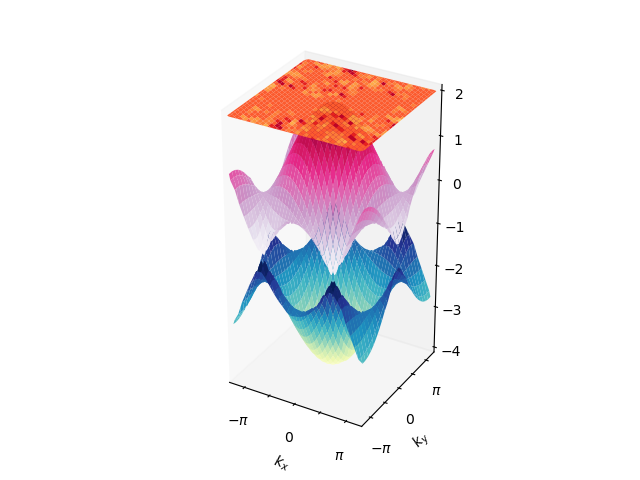
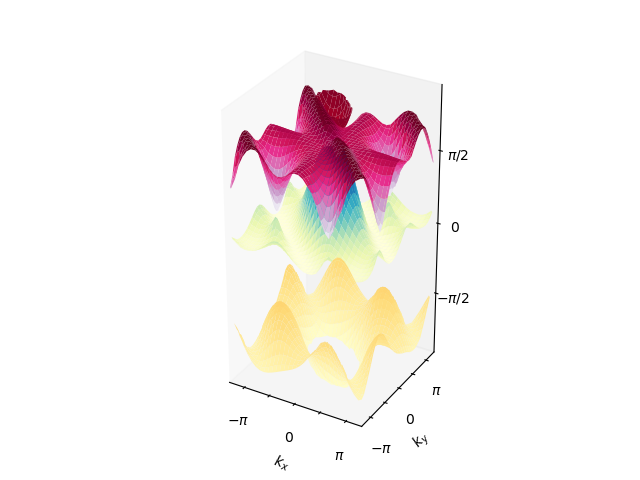
Finite geometry square

diff --git a/tight_binding/hamiltonians.py b/tight_binding/hamiltonians.py
@@ -500,3 +500,238 @@ def square_hamiltonian_driven(delta_a=0,
        return hamiltonian
     
     return H
+
+def square_hamiltonian_driven_finite_y(
+                              L = 10,
+                              delta_a=0, 
+                              delta_b=0, 
+                              delta_c=0, 
+                              J_ab_0=0, 
+                              J_ac_0=0, 
+                              J_bc_0=0, 
+                              J_aa_1x=0, 
+                              J_bb_1x=0, 
+                              J_cc_1x=0, 
+                              J_ab_1x=0, 
+                              J_ac_1x=0, 
+                              J_bc_1x=0,
+                              J_aa_1y=0, 
+                              J_bb_1y=0, 
+                              J_cc_1y=0, 
+                              J_ab_1y=0, 
+                              J_ac_1y=0, 
+                              J_bc_1y=0,
+                              J_aa_2p=0, 
+                              J_bb_2p=0, 
+                              J_cc_2p=0, 
+                              J_ab_2p=0, 
+                              J_ac_2p=0, 
+                              J_bc_2p=0,
+                              J_aa_2m=0, 
+                              J_bb_2m=0, 
+                              J_cc_2m=0, 
+                              J_ab_2m=0, 
+                              J_ac_2m=0, 
+                              J_bc_2m=0,  
+                              A_x=0, 
+                              A_y=0, 
+                              omega=0, 
+                              phi=0,
+                              a=1):
+    """Defines a bloch hamiltonian for the out-of-equillibrium square lattice,
+    cut along the x direction.
+    
+    Parameters
+    ----------
+    L: int
+        The number of layres in the y direction to use
+    delta_aa: float
+        The on-site potential for the A orbital
+    delta_bb: float
+        The on-site potential for the B orbital
+    delta_cc: float
+        The on-site potential for the C orbital
+    delta_ab: float
+        The matrix element for the A and B orbitals at the same site
+    delta_ac: float
+        The matrix element for the A and C orbitals at the same site
+    delta_bc: float
+        The matrix element for the B and C orbitals at the same site
+    J_aa_1x: float
+        The tunneling parameter between nn A orbitals in the horizontal 
+        direction
+    J_bb_1x: float
+        The tunneling parameter between nn B orbitals in the horizontal 
+        direction
+    J_cc_1x: float
+        The tunneling parameter between nn C orbitals in the horizontal 
+        direction
+    J_ab_1x: float
+        The tunneling parameter between nn A and B orbitals in the horizontal 
+        direction
+    J_ac_1x: float
+        The tunneling parameter between nn A and C orbitals in the horizontal 
+        direction
+    J_bc_1x: float
+        The tunneling parameter between nn B and C orbitals in the horizontal 
+        direction
+    J_aa_1y: float
+        The tunneling parameter between nn A orbitals in the vertical direction
+    J_bb_1y: float
+        The tunneling parameter between nn B orbitals in the vertical direction
+    J_cc_1y: float
+        The tunneling parameter between nn C orbitals in the vertical direction
+    J_ab_1y: float
+        The tunneling parameter between nn A and B orbitals in the vertical 
+        direction
+    J_ac_1y: float
+        The tunneling parameter between nn A and C orbitals in the vertical 
+        direction
+    J_bc_1y: float
+        The tunneling parameter between nn B and C orbitals in the vertical 
+        direction
+    J_aa_2p: float
+        The tunneling parameter between nn A orbitals in the diagonal a1+a2 
+        direction
+    J_bb_2p: float
+        The tunneling parameter between nn B orbitals in the diagonal a1+a2 
+        direction
+    J_cc_2p: float
+        The tunneling parameter between nn C orbitals in the diagonal a1+a2 
+        direction
+    J_ab_2p: float
+        The tunneling parameter between nn A and B orbitals in the diagonal 
+        a1+a2 direction
+    J_ac_2p: float
+        The tunneling parameter between nn A and C orbitals in the diagonal 
+        a1+a2 direction
+    J_bc_2p: float
+        The tunneling parameter between nn B and C orbitals in the diagonal 
+        a1+a2 direction
+    J_aa_2m: float
+        The     tunneling parameter between nn A orbitals in the diagonal a1-a2 
+        direction
+    J_bb_2m: float
+        The tunneling parameter between nn B orbitals in the diagonal a1-a2 
+        direction
+    J_cc_2m: float
+        The tunneling parameter between nn C orbitals in the diagonal a1-a2 
+        direction
+    J_ab_2m: float
+        The tunneling parameter between nn A and B orbitals in the diagonal 
+        a1-a2 direction
+    J_ac_2m: float
+        The tunneling parameter between nn A and C orbitals in the diagonal 
+        a1-a2 direction
+    J_bc_2m: float
+        The tunneling parameter between nn B and C orbitals in the diagonal 
+        a1-a2 direction
+    A_x: float
+        The amplitude of the x component of the driving vector potential
+    A_y: float
+        The amplitude of the y component of the driving vector potential
+    omega: float
+        The angular frequency of the driving vector potential
+    phi:
+        The relative phase of the phi component of the vector potential
+    a: float
+        The lattice spacing
+
+    Returns
+    -------
+    H: function
+        The square bloch hamiltonian as a function of quasimomentum k and 
+        time t"""
+    a_1 = a*np.array([1,0])
+    a_2 = a*np.array([0,1])
+
+    J_ba_0 = np.conjugate(J_ab_0)
+    J_ca_0 = np.conjugate(J_ac_0)
+    J_cb_0 = np.conjugate(J_bc_0)
+    J_ba_1x = np.conjugate(J_ab_1x)
+    J_ca_1x = np.conjugate(J_ac_1x)
+    J_cb_1x = np.conjugate(J_bc_1x)
+    J_ba_1y = np.conjugate(J_ab_1y)
+    J_ca_1y = np.conjugate(J_ac_1y)
+    J_cb_1y = np.conjugate(J_bc_1y)
+    J_ba_2p = np.conjugate(J_ab_2p)
+    J_ca_2p = np.conjugate(J_ac_2p)
+    J_cb_2p = np.conjugate(J_bc_2p)
+    J_ba_2m = np.conjugate(J_ab_2m)
+    J_ca_2m = np.conjugate(J_ac_2m)
+    J_cb_2m = np.conjugate(J_bc_2m)
+
+    
+    def A(time):
+        drive = np.array([A_x*np.cos(omega*time), 
+                                        -A_y*np.cos(omega*time + phi)])
+        return drive
+    
+    def H(k,t):
+        hamiltonian = np.zeros((3*L,3*L))
+
+        on_site = np.array([
+            [delta_a, -2*J_ab_0, -2*J_ac_0],
+            [-2*J_ba_0, delta_b, -2*J_bc_0],
+            [-2*J_ca_0, -2*J_cb_0, delta_c]
+        ])
+
+        horizontal = np.array([
+            [J_aa_1x, J_ab_1x, J_ac_1x],
+            [J_ba_1x, J_bb_1x, J_bc_1x],
+            [J_ca_1x, J_cb_1x, J_cc_1x]
+        ]) * -2*np.cos((k+A(t)[0])*a)
+
+        vertical_pos = np.array([
+            [J_aa_1y, J_ab_1y, J_ac_1y],
+            [J_ba_1y, J_bb_1y, J_bc_1y],
+            [J_ca_1y, J_cb_1y, J_cc_1y]
+        ])*-np.exp(1j*A(t)[1]*a)
+
+        vertical_neg = np.array([
+            [J_aa_1y, J_ab_1y, J_ac_1y],
+            [J_ba_1y, J_bb_1y, J_bc_1y],
+            [J_ca_1y, J_cb_1y, J_cc_1y]
+        ])*-np.exp(-1j*A(t)[1]*a)
+
+        diagonal_p_pos = np.array([
+            [J_aa_2p, J_ab_2p, J_ac_2p],
+            [J_ba_2p, J_bb_2p, J_bc_2p],
+            [J_ca_2p, J_cb_2p, J_cc_2p]
+        ])*-np.exp(1j*(k+A(t)[0]+A(t)[1])*a)
+
+        diagonal_p_neg = np.array([
+            [J_aa_2p, J_ab_2p, J_ac_2p],
+            [J_ba_2p, J_bb_2p, J_bc_2p],
+            [J_ca_2p, J_cb_2p, J_cc_2p]
+        ])*-np.exp(-1j*(k+A(t)[0]+A(t)[1])*a)
+
+        diagonal_m_pos = np.array([
+            [J_aa_2m, J_ab_2m, J_ac_2m],
+            [J_ba_2m, J_bb_2m, J_bc_2m],
+            [J_ca_2m, J_cb_2m, J_cc_2m]
+        ])*-np.exp(1j*(-k-A(t)[0]+A(t)[1])*a)
+
+        diagonal_m_neg = np.array([
+            [J_aa_2m, J_ab_2m, J_ac_2m],
+            [J_ba_2m, J_bb_2m, J_bc_2m],
+            [J_ca_2m, J_cb_2m, J_cc_2m]
+        ])*-np.exp(1j*(-k-A(t)[0]+A(t)[1])*a)
+
+
+        for i in range(L):
+            for j in range(L):
+                if i == j:
+                    hamiltonian[3*i:3*i+3,3*j:3*j+3] = on_site + horizontal
+                elif i+1 == j:
+                    hamiltonian[3*i:3*i+3,3*j:3*j+3] = (vertical_pos 
+                                                        + diagonal_p_pos 
+                                                        + diagonal_m_pos)
+                elif i-1 == j:
+                    hamiltonian[3*i:3*i+3,3*j:3*j+3] = (vertical_neg 
+                                                        + diagonal_p_neg
+                                                        + diagonal_m_neg)
+                                            
+        return hamiltonian
+    
+    return H
